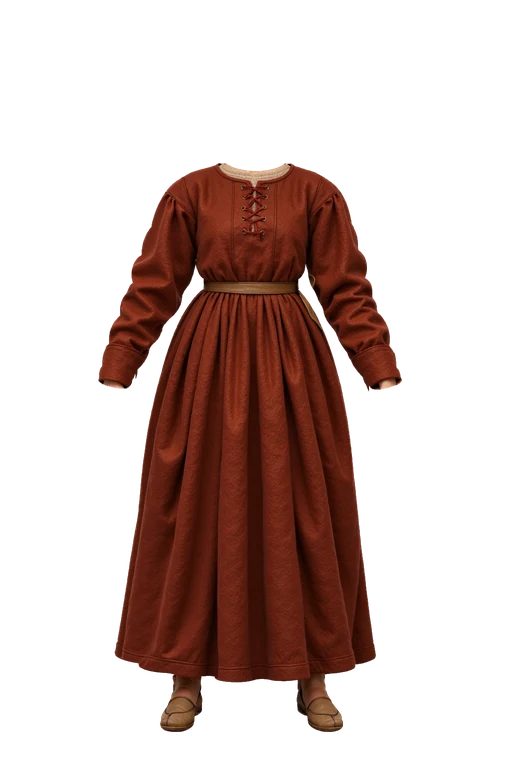
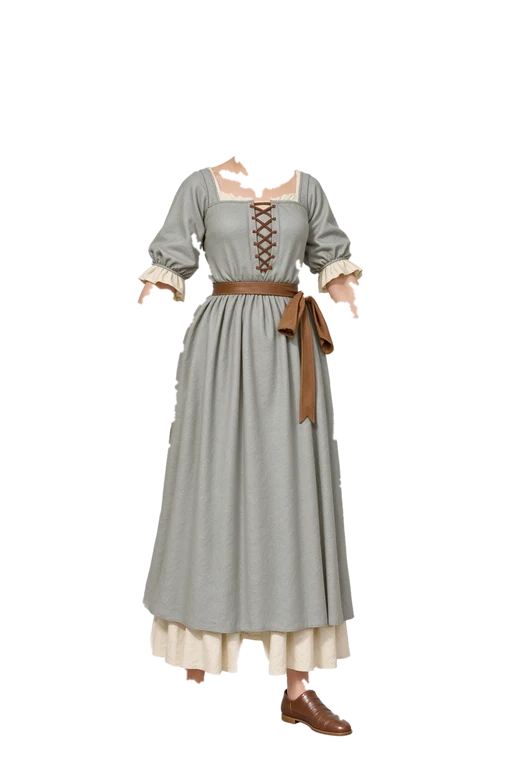
1.0-1-6 (rozpracováno): měšťanské šaty malované přímo na postavu, věneček; vrstva_z_tela.py — obrys z překreslené oblasti
Claude-Session: https://claude.ai/code/session_01Q25kmxKucwLhnUcj4Ap4v4

Changed region(s): [[0.1875, 0.1875, 0.7812, 0.9688]]

diff --git a/nastroje/vrstva_z_tela.py b/nastroje/vrstva_z_tela.py
@@ -34,9 +34,19 @@ def main():
         tt.alpha_composite(Image.open(P / ("odev-muz-lnena-kosile.webp" if sx == "muz" else "odev-zena-lnena-kosilka.webp")).convert("RGBA"))
     t = np.array(tt).astype(np.int16)
     yy = np.arange(1536)[:, None]
+    telo = np.array(Image.open(P / f"postava-telo-{sx}.webp").convert("RGBA")).astype(np.int16)
     bila = (g.min(axis=2) > 222) & (g.max(axis=2) - g.min(axis=2) < 22)
+    # oblast, kterou ComfyUI překreslovalo (stejně jako maska v inpaintu)
+    ta = telo[..., 3] > 10
+    oblast = (ndimage.binary_dilation(ta, iterations=45) & (yy > 290) & (yy < 1060)) if spodni else (ndimage.binary_dilation(ta, iterations=70) & (yy > 300))
+    rg = (telo[..., 0] - telo[..., 1]) / np.maximum(telo[..., 0], 1)
+    kuze = (telo[..., 3] > 200) & (rg >= .17)                     # odhalená kůže těla (ne prádlo)
     rozdil = np.abs(g - t[..., :3]).sum(axis=2)
-    latka = (yy > 285) & (((t[..., 3] < 20) & ~bila) | ((t[..., 3] > 200) & (rozdil > 55)))
+    zustava = (kuze & (rozdil < 70))                               # kůže, kterou ComfyUI nezměnilo (ruce, nohy)
+    if spodni:                                                     # košile, kterou zbroj nezakryla
+        kosile = (t[..., 3] > 200) & ~kuze
+        zustava |= kosile & (rozdil < 45)
+    latka = oblast & ~bila & ~zustava
     latka = ndimage.binary_opening(latka, iterations=2)
     lab, n = ndimage.label(latka)
     if n:
